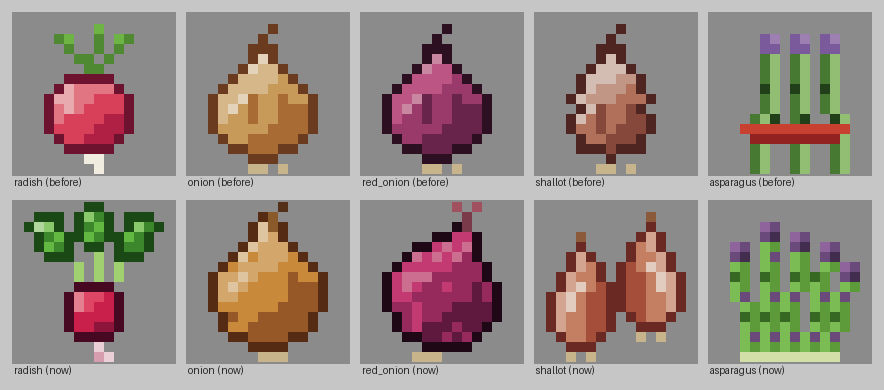
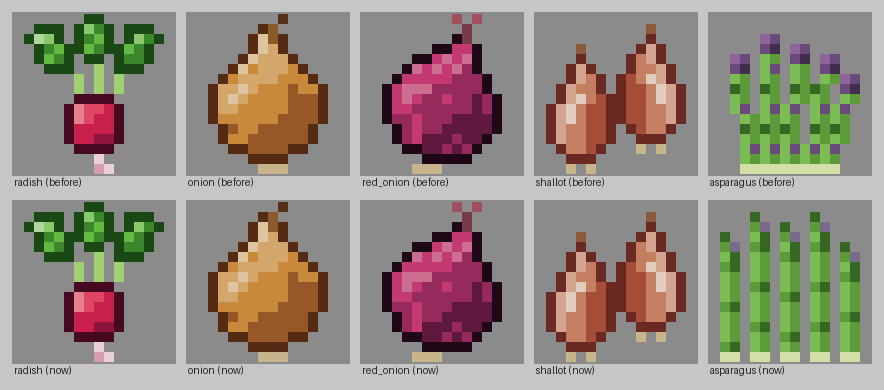
Straighten the asparagus and make it greener
Upright parallel spears with a gap between each, soft green scales, and only a
faint purple touch at the tips.

Claude-Session: https://claude.ai/code/session_015LnbBras9DEmUQEKydUTyp

diff --git a/.workflow/art/item_sprites.py b/.workflow/art/item_sprites.py
@@ -1397,19 +1397,22 @@ def shallot_hand():
 def asparagus_hand():
     s = Sprite()
     green = ramp("#5c9a3a")
-    tip = ramp("#6a4a7a")
-    # A loose bunch of slim spears fanning slightly, each lit on one side, with scaly purple-tinged tips.
-    for bottom, top in [((4, 15), (3, 4)), ((6, 15), (6, 2)), ((8, 15), (9, 3)), ((10, 15), (12, 4)), ((12, 15), (14, 6))]:
-        spear = s.line(green[BASE], bottom[0], bottom[1], top[0], top[1])
-        for i, (x, y) in enumerate(spear):
-            s.put(x - 1, y, green[LIGHT] if i % 4 else green[SHADOW])
-            if i % 4 == 2 and i < len(spear) - 3:
-                s.put(x, y, tip[BASE])
-        tx, ty = spear[-1]
-        s.pixels_at(tip[BASE], [(tx, ty), (tx - 1, ty + 1)])
-        s.pixels_at(tip[LIGHT], [(tx - 1, ty)])
-        s.pixels_at(tip[SHADOW], [(tx, ty + 1)])
-        s.pixels_at(ramp("#d2e0a8")[BASE], [(bottom[0], 15), (bottom[0] - 1, 15)])
+    # Straight, upright spears side by side, two pixels wide, lit on the left, tops at slightly different heights.
+    for x, top in ((1, 4), (4, 2), (7, 3), (10, 2), (13, 5)):
+        for y in range(top + 1, 15):
+            s.put(x, y, green[LIGHT])
+            s.put(x + 1, y, green[BASE])
+            # Small scales up the stem, a darker green on the shaded side.
+            if (y - top) % 4 == 2:
+                s.put(x + 1, y, green[SHADOW])
+                s.put(x, y, green[BASE])
+        # A pointed, scaly tip with only a faint purple touch.
+        s.put(x, top, green[BASE])
+        s.put(x + 1, top, ramp("#7a6a8a")[BASE])
+        s.put(x, top - 1, green[SHADOW])
+        s.put(x + 1, top + 1, green[SHADOW])
+        # Pale cut ends.
+        s.pixels_at(ramp("#d2e0a8")[BASE], [(x, 15), (x + 1, 15)])
     return s
 
 
